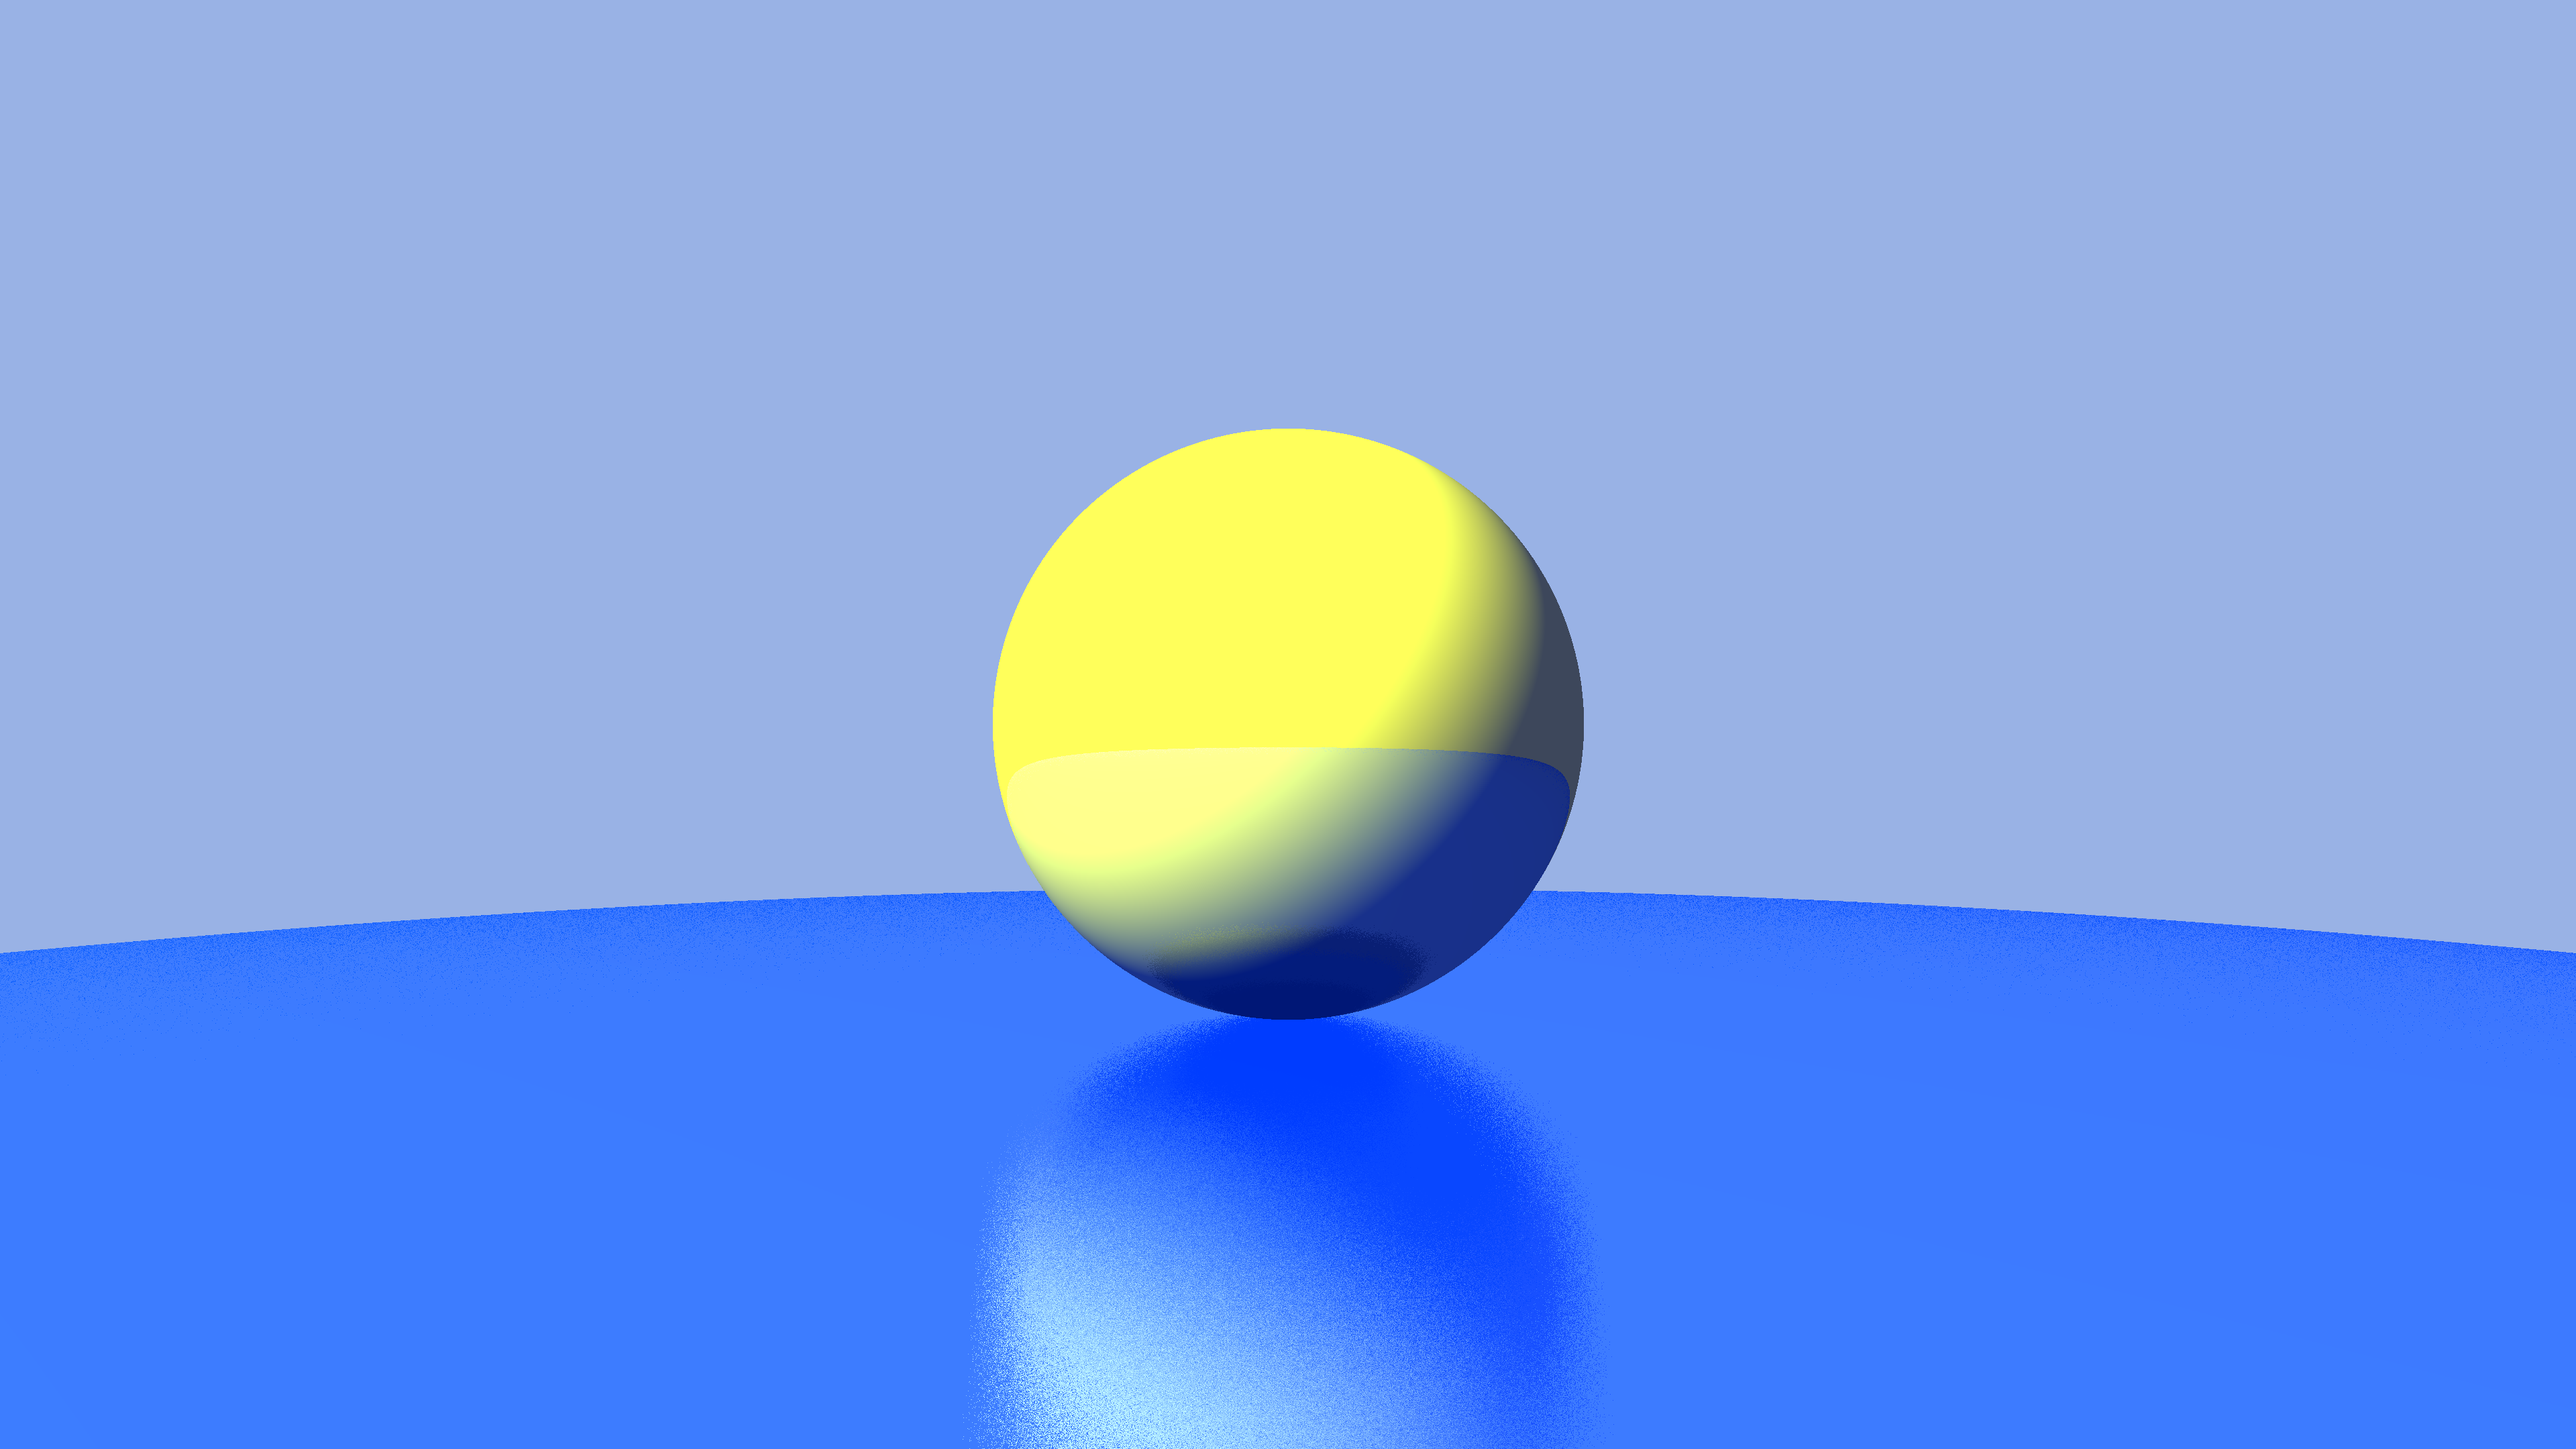
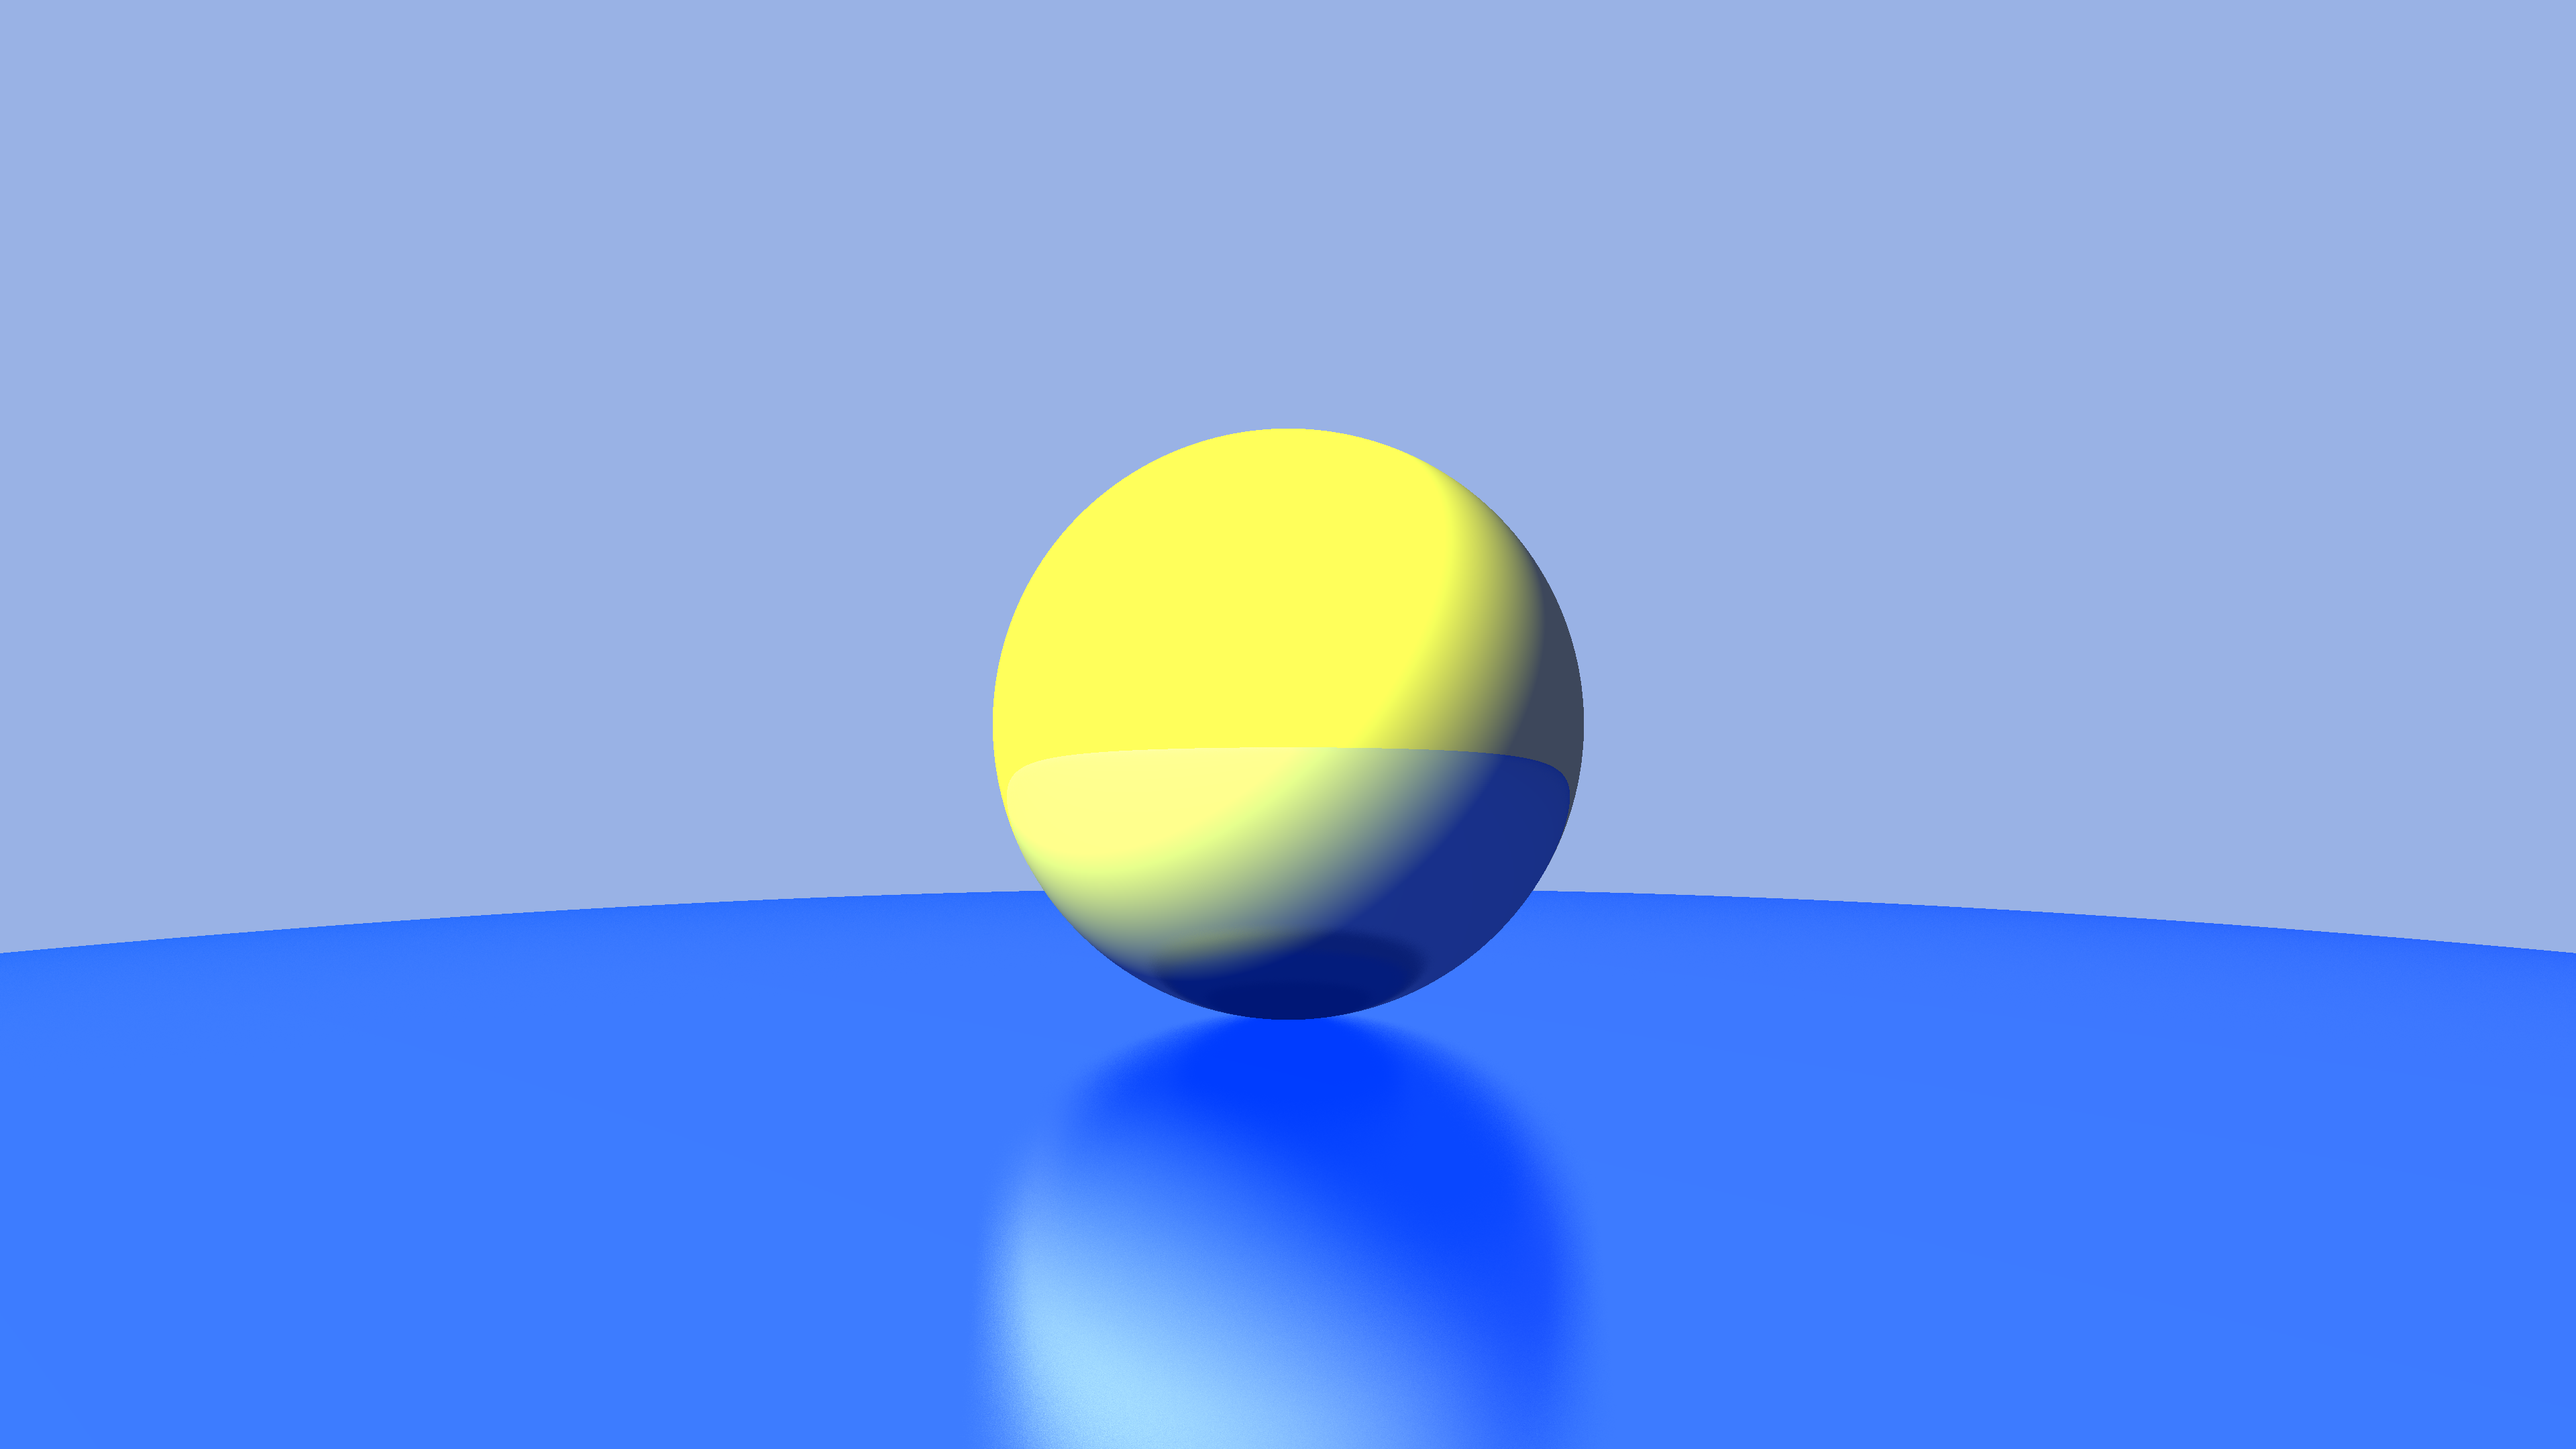
File rendering with Path Tracing

diff --git a/src/PathTracer/RenderManager.cs b/src/PathTracer/RenderManager.cs
@@ -29,12 +29,14 @@ public class RenderManager : IRenderManager
         _renderer = renderer;
         _fileRenderer = fileRenderer;
 
+        FileRenderingProgression = 100;
+
         _renderStopwatch = new Stopwatch();
         _camera = new Camera();
     }
 
     public TextureImage CurrentTextureImage => _renderFrameCount > 0 ? _fullResolutionTextureImage : _textureImage;
-    public bool IsFileRenderingActive => !_fileRenderingTask?.IsCompleted ?? false;
+    public int FileRenderingProgression { get; private set; }
     public DateTime LastRenderTime { get; private set; }
     public long RenderDuration { get; private set; }
 
@@ -100,8 +102,11 @@ public class RenderManager : IRenderManager
                 _renderFrameCount++;
             }
 
-            // If accumulate
-            _computeNewHighRes = true;
+            // If accumulate 
+            if (_fullResolutionTextureImage.FrameCount < 50)
+            {
+                _computeNewHighRes = true;
+            }
 
             _graphicsService.ResetCommandList(commandList);
             _renderer.CommitImage(_fullResolutionTextureImage, commandList);
@@ -114,6 +119,8 @@ public class RenderManager : IRenderManager
 
     public void RenderToImage(RenderSettings renderSettings, Scene scene, Camera camera)
     {
+        const int iterationCount = 50;
+
         if (_fileRenderingTask == null || _fileRenderingTask.IsCompleted)
         {
             _fileRenderingTask = new Task(() =>
@@ -126,7 +133,8 @@ public class RenderManager : IRenderManager
                 {
                     Width = width,
                     Height = height,
-                    ImageData = new Vector4[width * height]
+                    ImageData = new Vector4[width * height],
+                    AccumulationData = new Vector4[width * height]
                 };
 
                 var fileCamera = camera with
@@ -134,7 +142,17 @@ public class RenderManager : IRenderManager
                     AspectRatio = (float)width / height
                 };
 
-                _fileRenderer.Render(outputImage, scene, fileCamera);
+                FileRenderingProgression = 0;
+
+                for (var i = 0; i < iterationCount; i++)
+                {
+                    outputImage.FrameCount++;
+                    _fileRenderer.Render(outputImage, scene, fileCamera);
+                    FileRenderingProgression = (int)((float)i / iterationCount * 100);
+                }
+
+                FileRenderingProgression = 100;
+
                 _fileRenderer.CommitImage(outputImage, outputPath);
             });
 

diff --git a/tests/PathTracer.Core.UnitTests/RendererTests.cs b/tests/PathTracer.Core.UnitTests/RendererTests.cs
@@ -11,12 +11,14 @@ public class RendererTests
     private readonly IImage _mockImage;
     private readonly IImageWriter<IImage, TestParameter> _mockImageWriter;
     private readonly Camera _camera;
+    private readonly Scene _scene;
 
     public RendererTests()
     {
         _mockImage = Substitute.For<IImage>();
         _mockImageWriter = Substitute.For<IImageWriter<IImage, TestParameter>>();
         _camera = new Camera();
+        _scene = new Scene();
 
         _sut = new Renderer<IImage, TestParameter>(_mockImageWriter);
     }
@@ -31,7 +33,7 @@ public class RendererTests
         _mockImage.Height.Returns(imageHeight);
 
         // Act
-        var action = () => { _sut.Render(_mockImage, _camera); };
+        var action = () => { _sut.Render(_mockImage, _scene, _camera); };
 
         // Assert
         Assert.Throws<ArgumentOutOfRangeException>(action);
@@ -45,7 +47,7 @@ public class RendererTests
         _mockImage.Height.Returns(100);
 
         // Act
-        _sut.Render(_mockImage, _camera);
+        _sut.Render(_mockImage, _scene, _camera);
 
         // Assert
         _mockImageWriter.Received(100 * 100).StorePixel(_mockImage, Arg.Any<int>(), Arg.Any<int>(), Arg.Any<Vector4>());
@@ -72,7 +74,7 @@ public class RendererTests
         _mockImage.Height.Returns(100);
 
         // Act
-        _sut.Render(_mockImage, _camera with { Position = Vector3.Zero });
+        _sut.Render(_mockImage, _scene, _camera with { Position = Vector3.Zero });
 
         // Assert
         _mockImageWriter.Received(100 * 100).StorePixel(_mockImage, Arg.Any<int>(), Arg.Any<int>(), new Vector4(0.0f, 0.0f, 0.0f, 1.0f));

diff --git a/src/PathTracer/PathTracerApplication.cs b/src/PathTracer/PathTracerApplication.cs
@@ -124,7 +124,7 @@ public class PathTracerApplication
             _graphicsService.PresentSwapChain(_graphicsDevice);
 
             // TODO: Change that: if we have an exception the Completed flag will be true anyway
-            if (_renderManager.IsFileRenderingActive)
+            if (_renderManager.FileRenderingProgression < 100)
             {
                 _renderManager.CheckRenderToImageErrors();
             }
@@ -168,7 +168,7 @@ public class PathTracerApplication
         _renderStatistics.LastRenderTime = _renderManager.LastRenderTime;
         _renderStatistics.CurrentFrameTime = (long)(_frameTimer.DeltaTime * 1000.0f);
         _renderStatistics.FramesPerSeconds = _frameTimer.FramesPerSeconds;
-        _renderStatistics.IsFileRenderingActive = _renderManager.IsFileRenderingActive;
+        _renderStatistics.FileRenderingProgression = _renderManager.FileRenderingProgression;
         _renderStatistics.RenderWidth = _renderManager.CurrentTextureImage.Width;
         _renderStatistics.RenderHeight = _renderManager.CurrentTextureImage.Height;
         _renderStatistics.AllocatedManagedMemory = GC.GetTotalMemory(false);

diff --git a/src/PathTracer/UIManager.cs b/src/PathTracer/UIManager.cs
@@ -189,14 +189,15 @@ public class UIManager : IUIManager
 
             _uiService.NewLine();
 
-            if (_uiService.Button("Render", renderStatistics.IsFileRenderingActive ? ControlStyles.Disabled : ControlStyles.None))
+            if (_uiService.Button("Render", renderStatistics.FileRenderingProgression < 100 ? ControlStyles.Disabled : ControlStyles.None))
             {
                 _commandManager.SendCommand(new RenderCommand() { RenderSettings = _renderSettings });
             }
 
-            if (renderStatistics.IsFileRenderingActive)
+            if (renderStatistics.FileRenderingProgression < 100)
             {
                 _uiService.Text("Rendering...");
+                _uiService.Progressbar(renderStatistics.FileRenderingProgression / 100.0f);
             }
         }
     }

diff --git a/src/PathTracer/ImageWriters/FileImageWriter.cs b/src/PathTracer/ImageWriters/FileImageWriter.cs
@@ -14,7 +14,19 @@ public class FileImageWriter : IImageWriter<FileImage, string>
 
     public void StorePixel(FileImage image, int x, int y, Vector4 pixel)
     {
+        // TODO: Move the logic to accumulation in the renderer
         var pixelRowIndex = (image.Height - 1 - y) * image.Width;
+        
+        if (image.FrameCount == 1)
+        {
+            image.AccumulationData.Span[pixelRowIndex + x] = Vector4.Zero;
+        }
+
+        image.AccumulationData.Span[pixelRowIndex + x] += pixel;
+
+        var accumulatedColor = image.AccumulationData.Span[pixelRowIndex + x];
+        pixel = accumulatedColor / image.FrameCount;
+        
         image.ImageData.Span[pixelRowIndex + x] = pixel;
     }
 

diff --git a/src/PathTracer/RenderStatistics.cs b/src/PathTracer/RenderStatistics.cs
@@ -2,11 +2,16 @@ namespace PathTracer;
 
 public record struct RenderStatistics
 {
+    public RenderStatistics()
+    {
+        FileRenderingProgression = 100;
+    }
+
     public long RenderDuration { get; set; }
     public long CurrentFrameTime { get; set; }
     public int FramesPerSeconds { get; set; }
     public DateTime LastRenderTime { get; set; }
-    public bool IsFileRenderingActive { get; set; }
+    public int FileRenderingProgression { get; set; }
     public int RenderWidth { get; set; }
     public int RenderHeight { get; set; }
     public long AllocatedManagedMemory { get; set; }

diff --git a/src/PathTracer/ImageWriters/FileImage.cs b/src/PathTracer/ImageWriters/FileImage.cs
@@ -1,15 +1,18 @@
 namespace PathTracer.ImageWriters;
 
-public readonly record struct FileImage : IImage
+public record struct FileImage : IImage
 {
     public FileImage()
     {
         Width = 0;
         Height = 0;
         ImageData = Array.Empty<Vector4>();
+        AccumulationData = Array.Empty<Vector4>();
     }
 
     public int Width { get; init; }
     public int Height { get; init; }
     public Memory<Vector4> ImageData { get; init; }
+    public Memory<Vector4> AccumulationData { get; init; }
+    public int FrameCount { get; set; }
 }

diff --git a/src/PathTracer.UI/ImGuiProvider/ImGuiUIService.cs b/src/PathTracer.UI/ImGuiProvider/ImGuiUIService.cs
@@ -81,6 +81,7 @@ public class ImGuiUIService : IUIService
         }
 
         ImGui.End();
+        //ImGui.ShowDemoWindow();
         _imGuiBackend.Render();
 
         var imGuiDrawData = ImGui.GetDrawData();
@@ -234,7 +235,12 @@ public class ImGuiUIService : IUIService
         {
             ImGui.SetItemDefaultFocus();
         }
-
+        
         return result;
+    }
+
+    public void Progressbar(float value)
+    {
+        ImGui.ProgressBar(value, new Vector2(0.0f, 0.0f));
     }
 }

diff --git a/src/PathTracer.Core/Renderer.cs b/src/PathTracer.Core/Renderer.cs
@@ -35,8 +35,6 @@ public class Renderer<TImage, TParameter> : IRenderer<TImage, TParameter> where 
                 pixelCoordinates = pixelCoordinates * 2.0f - new Vector2(1.0f, 1.0f);
 
                 var color = PixelShader(pixelCoordinates, rayGenerator, scene);
-                //color = Vector4.Clamp(color, Vector4.Zero, new Vector4(1.0f));
-
                 _imageWriter.StorePixel(image, j, i, color);
             }
         });

diff --git a/src/PathTracer/IRenderManager.cs b/src/PathTracer/IRenderManager.cs
@@ -3,7 +3,7 @@ namespace PathTracer;
 public interface IRenderManager
 {
     TextureImage CurrentTextureImage { get; }
-    bool IsFileRenderingActive { get; }
+    int FileRenderingProgression { get; }
     DateTime LastRenderTime { get; }
     long RenderDuration { get; }
 

diff --git a/src/PathTracer.UI/IUIService.cs b/src/PathTracer.UI/IUIService.cs
@@ -37,4 +37,6 @@ public interface IUIService
     bool BeginCombo(string label, string previewValue);
     void EndCombo();
     bool Selectable(string text, bool isSelected = false);
+    
+    void Progressbar(float value);
 }
